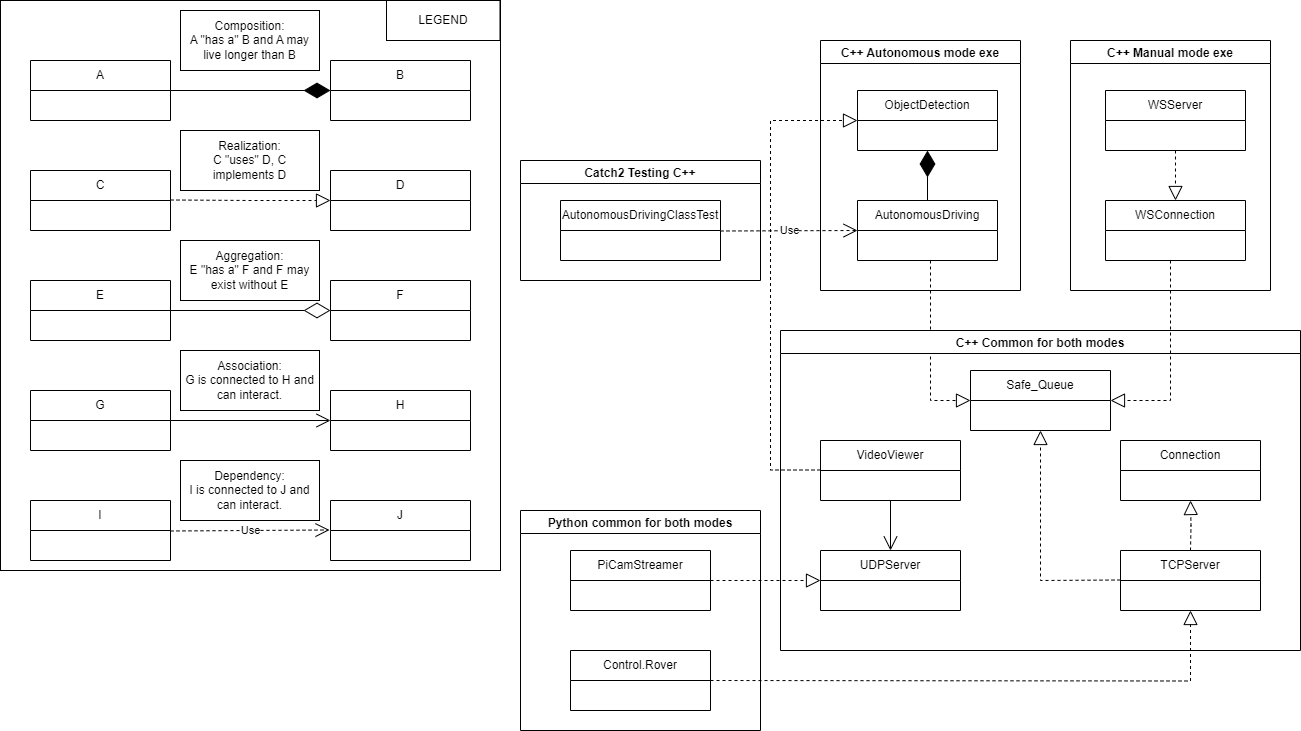
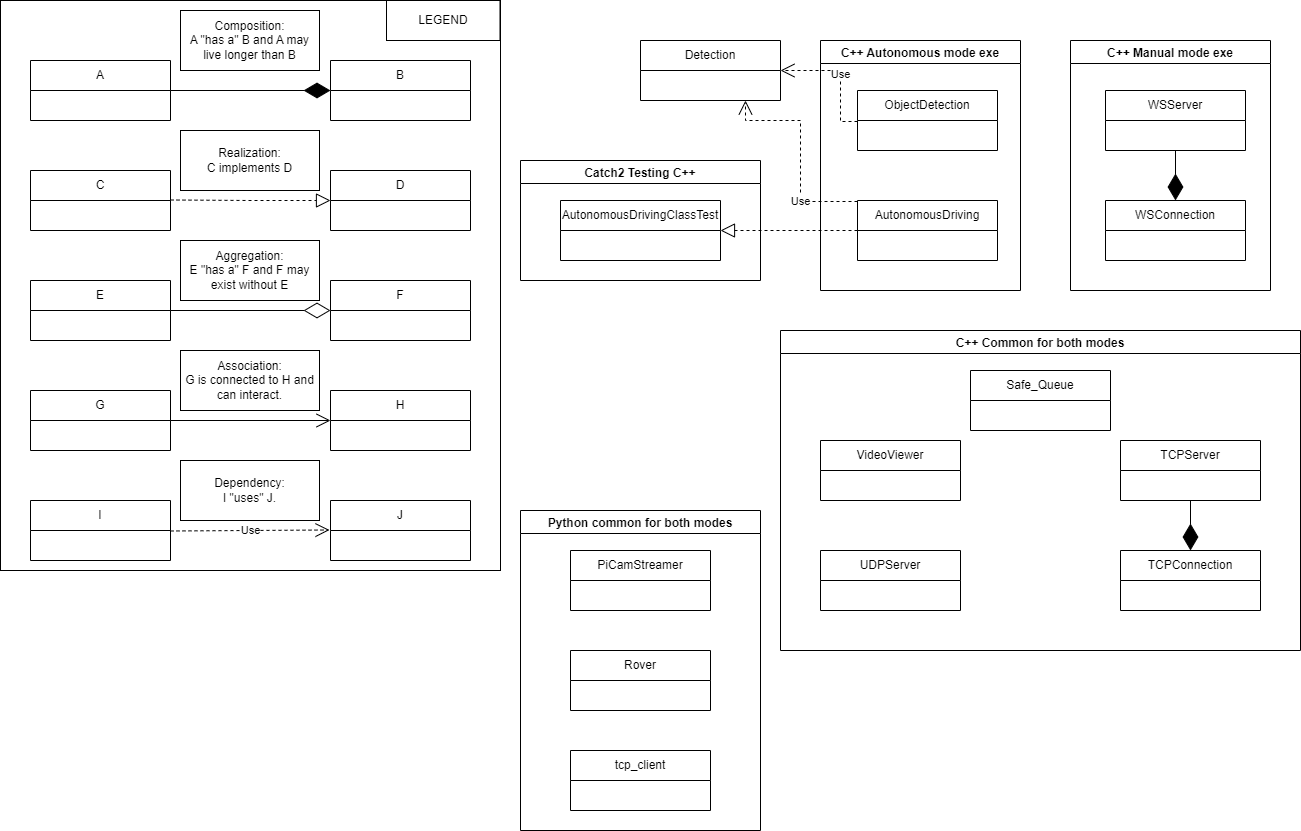
Updated readme file

diff --git a/application/automated_driving.cpp b/application/automated_driving.cpp
@@ -113,14 +113,9 @@ int main() {
     std::cout << "Stopping program" << std::endl;
     stop_comm_thread = true;
     TCP.stop();
-    std::cout << "TCP stopped" << std::endl;
     AutonomousDriver.stop();
-    std::cout << "AutonomousDriver stopped" << std::endl;
     ObjectDetector.stop();
-    std::cout << "ObjectDetector stopped" << std::endl;
     UDP.stop();
-    std::cout << "UDP stopped" << std::endl;
     internal_comm_thread.join();
-    std::cout << "internal_comm_thread stopped" << std::endl;
     return 0;
 }

diff --git a/README.md b/README.md
@@ -49,12 +49,17 @@ The folder structure has partly been inspired by the Threepp library: \
 * **/gui** - GUI code
 * **/protobuf** - Protobuf files
 * **/resources** - Resources such yolo-data
+* 
+### Components communication
+![img.png](doc/images/components_communication.png)
 
 ### Class structure
 ![img.png](doc/images/class_diagram.png)
 
 ### Data flow
 ![img.png](doc/images/dataflow_diagram.png)
+
+
 
 ### Conventions
 
